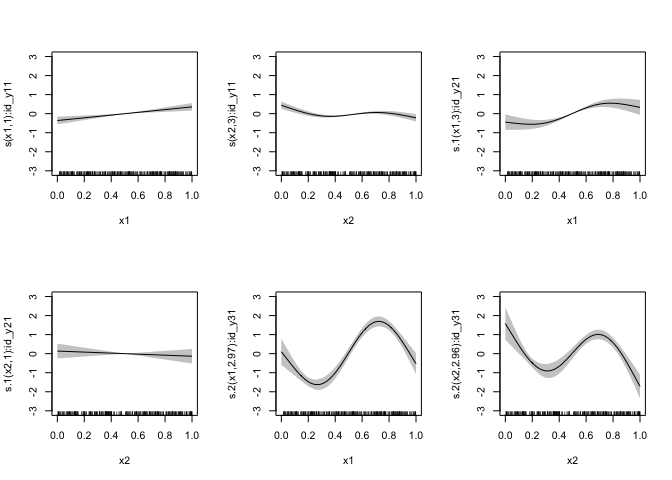
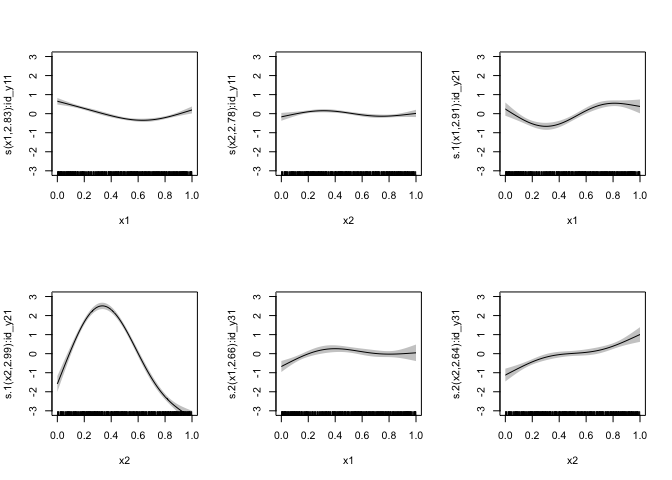
more covariance, more speculation

diff --git a/README.md b/README.md
@@ -94,7 +94,7 @@ generate_cov_matrix <- function(dim, scale = 1) {
 </details>
 
 ``` r
-data <- simulate_mvn_missing(n = 300, miss = c(0,0,0.9), seed = 10, V = matrix(c(1,2,2,2,1,2,2,2,1), 3))
+data <- simulate_mvn_missing(n = 1000, miss = c(0,0,0.9), seed = 13, V = matrix(c(1,2,2,2,1,2,2,2,1), 3))
 ```
 
 OK, first strategy. Following the approach in `?mgcv::missing.data`, we
@@ -138,15 +138,15 @@ frms
 
     ## [[1]]
     ## y1 ~ 0 + s(x1, by = id_y1, k = 4) + s(x2, by = id_y1, k = 4)
-    ## <environment: 0x7fe9f9858fc8>
+    ## <environment: 0x7fac260b4ba8>
     ## 
     ## [[2]]
     ## y2 ~ 0 + s(x1, by = id_y2, k = 4) + s(x2, by = id_y2, k = 4)
-    ## <environment: 0x7fe9f9861c08>
+    ## <environment: 0x7fac260bd7b0>
     ## 
     ## [[3]]
     ## y3 ~ 0 + s(x1, by = id_y3, k = 4) + s(x2, by = id_y3, k = 4)
-    ## <environment: 0x7fe9f84a3db8>
+    ## <environment: 0x7fac44e318e8>
 
 ``` r
 # Create formulas for the full model without missing data or index terms
@@ -214,4 +214,172 @@ The other problem, that I’ve not yet addressed: What if I have a shared
 term across variables such as `1 + 2 + 3 ~ 0 + s(x4) + s(x5)` in the
 model. The best idea I can come up with is to make several terms, each
 representing a condition where different combinations of variables are
-missing, and then sum them up.
+missing, and then sum them up. OK, let’s try the random values approach
+
+``` r
+data_missing_rand <- data
+for (i in seq_along(yvars)) {
+  yvar <- yvars[i]
+  idvar <- paste0("id_", yvar)
+  idvars[i] <- idvar
+  # Center the outcome variables so we don't deal with intercepts, save the means
+  ymeans[i] <- mean(data_missing_rand[[yvar]], na.rm = TRUE)
+  data_missing_rand[[yvar]] <- data_missing_rand[[yvar]] - ymeans[i]
+  # Create indicate variables (id_*)as to whether to include an observation, as ordered factors
+  # with 0 being missing and 1 being present
+  data_missing_rand[[idvar]] <- ordered(ifelse(is.na(data_missing_rand[[yvar]]), 0, 1), levels = c("0", "1"))
+  # Set missing values to zero
+  data_missing_rand[[yvar]][is.na(data_missing_rand[[yvar]])] <- rnorm(sum(is.na(data_missing_rand[[yvar]])), mean = 0, sd = sd(data_missing_rand[[yvar]], na.rm = TRUE))
+}
+
+mod_miss_random <- mgcv::gam(
+  frms,
+  family = mgcv::mvn(d = length(yvars)),
+  data = data_missing_rand,
+  method = "REML"
+)
+plot(mod_full, pages = 1, shade = TRUE, ylim = c(-3, 3), xlim = c(0, 1))
+```
+
+![](README_files/figure-gfm/unnamed-chunk-4-1.png)<!-- -->
+
+``` r
+plot(mod_miss_random, pages = 1, shade = TRUE, ylim = c(-3, 3), xlim = c(0, 1))
+```
+
+![](README_files/figure-gfm/unnamed-chunk-4-2.png)<!-- -->
+
+OK, the random value approach does give us more appropriate uncertainty
+for the specific smooth terms. What are the consequences? Let’s look at
+the covariance matrix:
+
+``` r
+(V_true <- attr(data, "true_V"))
+```
+
+    ##      [,1] [,2] [,3]
+    ## [1,]    1    2    2
+    ## [2,]    2    1    2
+    ## [3,]    2    2    1
+
+``` r
+(V_full <- solve(crossprod(mod_full$family$data$R)))
+```
+
+    ##           [,1]     [,2]     [,3]
+    ## [1,] 0.9474711 1.890342 1.887279
+    ## [2,] 1.8903417 3.797058 3.758519
+    ## [3,] 1.8872794 3.758519 3.799153
+
+``` r
+(V_miss <- solve(crossprod(mod_miss$family$data$R)))
+```
+
+    ##           [,1]      [,2]      [,3]
+    ## [1,] 0.9470419 1.8894829 0.1821631
+    ## [2,] 1.8894829 3.7953391 0.3634101
+    ## [3,] 0.1821631 0.3634101 0.3631744
+
+``` r
+(V_miss_random <- solve(crossprod(mod_miss_random$family$data$R)))
+```
+
+    ##           [,1]      [,2]      [,3]
+    ## [1,] 0.9468754 1.8891515 0.2197479
+    ## [2,] 1.8891515 3.7946793 0.4341205
+    ## [3,] 0.2197479 0.4341205 3.8930326
+
+The missing data approach underestimates both varaince and co-variance
+
+I’m a bit confused here. Why does `mod_full` overestimate the variance
+of the lower-right square? It has the real data.
+
+Let’s look at the covariance if we estimate it from the residuals
+
+``` r
+(V_full_res <- cov(residuals(mod_full, type = "response"))) # quite similar V_full, as expected
+```
+
+    ##           [,1]     [,2]     [,3]
+    ## [1,] 0.9484195 1.892234 1.889169
+    ## [2,] 1.8922340 3.800858 3.762282
+    ## [3,] 1.8891686 3.762282 3.774403
+
+For the missing data cases we estimate the covaraince pairwise only from
+the non-missing residuals
+
+``` r
+# Discard the zero or randomly inserted values for the Y response
+res_miss <- residuals(mod_miss, type = "response")
+res_miss[is.na(as.matrix(data_missing[yvars]))] <- NA
+(V_miss_res <- cov(residuals(mod_miss, type = "response"), use = "pairwise.complete.obs")) # Same as V_miss
+```
+
+    ##           [,1]      [,2]      [,3]
+    ## [1,] 0.9479899 1.8913743 0.1823455
+    ## [2,] 1.8913743 3.7991382 0.3637739
+    ## [3,] 0.1823455 0.3637739 0.3631835
+
+``` r
+res_miss_random <- residuals(mod_miss_random, type = "response")
+res_miss_random[is.na(as.matrix(data_missing[yvars]))] <- NA
+(V_miss_random_res <- cov(residuals(mod_miss_random, type = "response"), use = "pairwise.complete.obs")) # Same a V_miss_random
+```
+
+    ##           [,1]      [,2]      [,3]
+    ## [1,] 0.9478232 1.8910425 0.2199679
+    ## [2,] 1.8910425 3.7984778 0.4345551
+    ## [3,] 0.2199679 0.4345551 3.8968594
+
+These also turn out the same as the estimated value from the model. The
+random data approach underestimates variance/covariance less than the
+zeroes-for-missing-data approach relative to the full model (which
+itself overestimates the true data). Though looking at correlation
+rather than covariance shows it’s not quite as intuitive. Since the
+zeros approach underestimates the overall variance it estimates higher
+correlation than the random data approach, and both are underestimates:
+
+``` r
+cov2cor(V_true)
+```
+
+    ##      [,1] [,2] [,3]
+    ## [1,]    1    2    2
+    ## [2,]    2    1    2
+    ## [3,]    2    2    1
+
+``` r
+cov2cor(V_full)
+```
+
+    ##           [,1]      [,2]      [,3]
+    ## [1,] 1.0000000 0.9966295 0.9947406
+    ## [2,] 0.9966295 1.0000000 0.9895776
+    ## [3,] 0.9947406 0.9895776 1.0000000
+
+``` r
+cov2cor(V_miss)
+```
+
+    ##          [,1]      [,2]      [,3]
+    ## [1,] 1.000000 0.9966280 0.3106120
+    ## [2,] 0.996628 1.0000000 0.3095381
+    ## [3,] 0.310612 0.3095381 1.0000000
+
+``` r
+cov2cor(V_miss_random)
+```
+
+    ##           [,1]      [,2]      [,3]
+    ## [1,] 1.0000000 0.9966274 0.1144549
+    ## [2,] 0.9966274 1.0000000 0.1129481
+    ## [3,] 0.1144549 0.1129481 1.0000000
+
+Anectodotally, the general patterns above are consistent across
+different random seeds.
+
+Crap, am I going to have to fit all those latent random effects as in
+`?mgcv::missing.data`? That’s both ugly and computationally intense, as
+I’ll need to fit a random term for each output in each formula, and that
+will blow up in the real model that has both more outcomes and more
+parameters.
